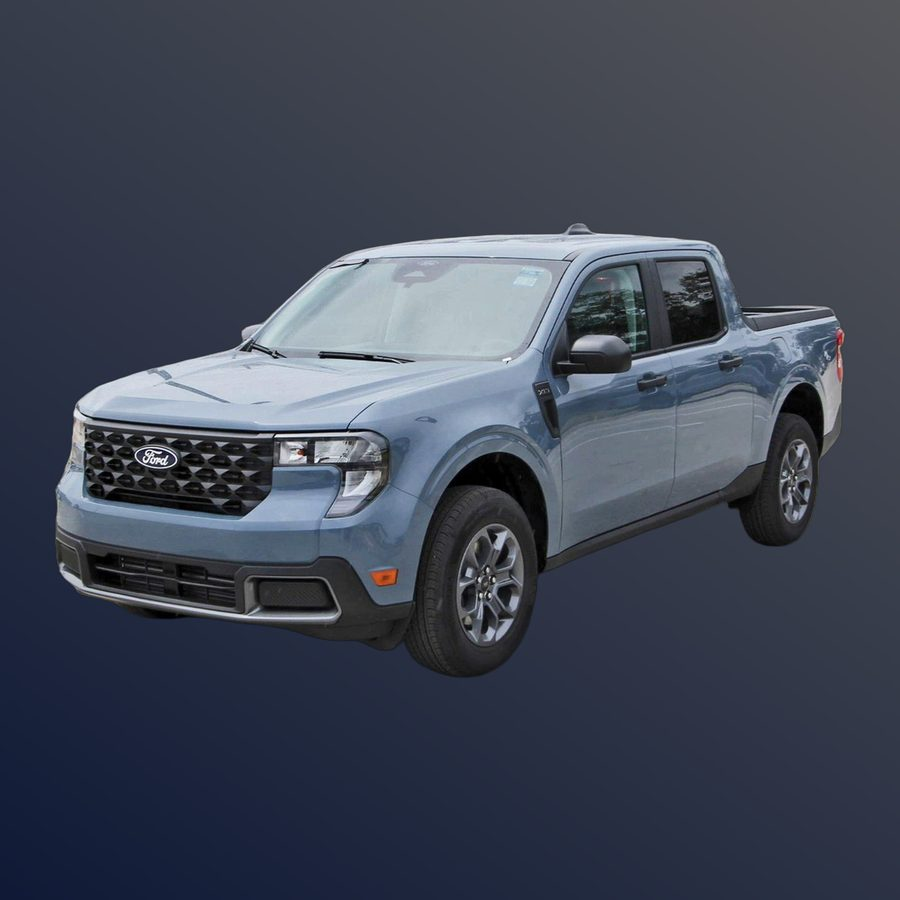
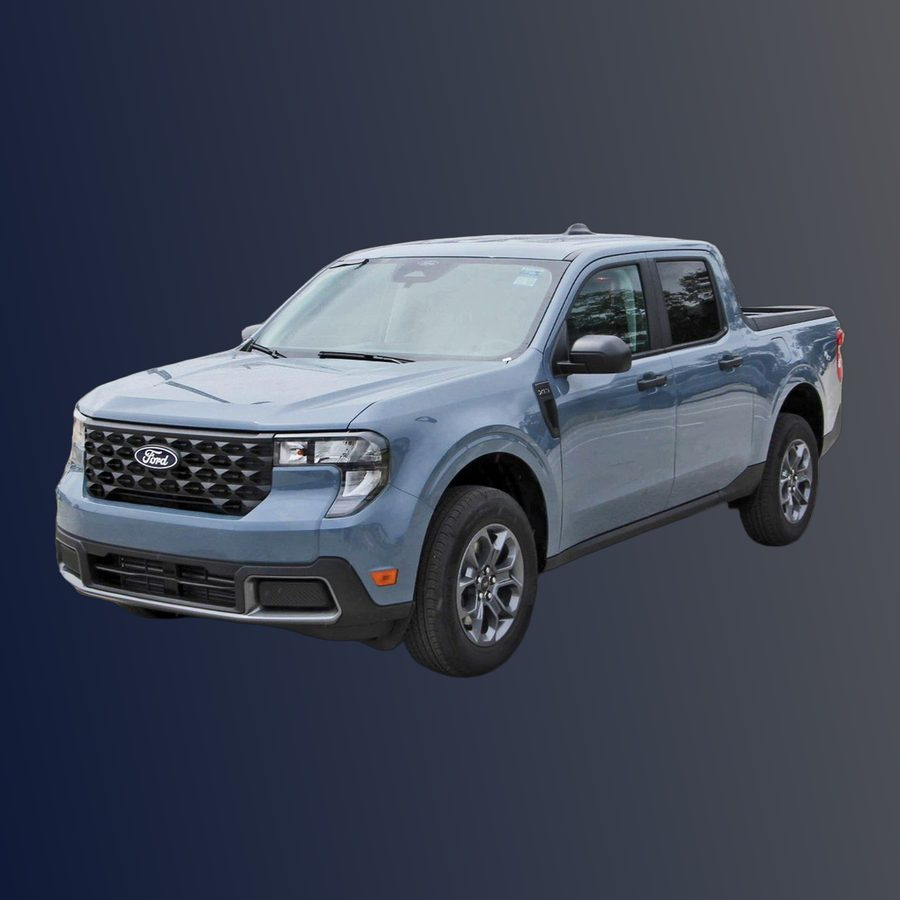
Landing page: the portrait demo is the 9:16 still, composed by the core
web/tools/make-demo-assets.py had drifted from the code (an import of
a module that no longer exists). It now composes the after and the
portrait through compose_hero with the core's vehicle backdrop spec,
at the spec's own square and portrait sizes, from the same cutout, so
the pair shows two of the three shapes a run makes without touching
the library's bundle. The output grid gives the tall portrait a
narrower column so the two sit about one height; the studio bullet
says horizontal, not story.

Claude-Session: https://claude.ai/code/session_01JiZjDqgyLWb4bpmTJWW28c

Changed region(s): [[0.84, 0.84, 1.0, 1.0], [0.0, 0.0, 0.0933, 0.0933]]

diff --git a/web/public/css/landing.css b/web/public/css/landing.css
@@ -174,7 +174,8 @@
   color: #fff; font-size: 10px; font-weight: 650;
 }
 
-.outgrid { display: grid; grid-template-columns: 1.1fr .9fr; gap: var(--s-3); align-items: start; }
+/* A square beside a 9:16 portrait, the two about one height. */
+.outgrid { display: grid; grid-template-columns: 1.3fr .75fr; gap: var(--s-3); align-items: start; }
 .outgrid img { width: 100%; border-radius: var(--r-md); border: 1px solid var(--line); box-shadow: var(--sh-2); }
 
 /* ---------- swatches ---------- */

diff --git a/web/public/index.html b/web/public/index.html
@@ -206,7 +206,7 @@
       </p>
       <ul class="ticks">
         <li>Backdrops, frames and a font ship with the site</li>
-        <li>Square, portrait and story from one set of choices</li>
+        <li>Square, portrait and horizontal from one set of choices</li>
         <li>The same text on every frame of the clip</li>
       </ul>
       <p class="xs dim" style="margin-top:var(--s-4)">

diff --git a/web/tools/make-demo-assets.py b/web/tools/make-demo-assets.py
@@ -10,8 +10,9 @@ from pathlib import Path
 sys.path.insert(0, "src")
 from PIL import Image
 
-from lotstretcher.imaging.compose.background import vehicle_gradient_background
 from lotstretcher.imaging.compose.hero import compose_hero
+from lotstretcher.imaging.compose.pipeline import HERO_STILL_FORMATS
+from lotstretcher.imaging.text import backdrop_spec
 
 V = Path("/home/asuramaya/Documents/listings/new/2026-Ford-Maverick-XLT-RB41981")
 OUT = Path("web/public/demo")
@@ -37,12 +38,16 @@ save(before_sq, "before.jpg", 900)
 
 # AFTER: composed from that same photo's cutout, by the real composer.
 cut = V / "images/exterior/cutout" / (Path(SRC).stem + ".png")
-bg = vehicle_gradient_background((1254, 1254), seed=SRC, exterior=EXT, interior=INT, sample_path=cut)
-after = compose_hero(bg, None, [cut], layout="single", spotlight=True)
+# The backdrop is the core's: a gradient from the vehicle's own colours,
+# seeded per image, exactly as a run makes it.
+bg = backdrop_spec("vehicle", SRC, EXT, INT)
+after = compose_hero(bg, None, [cut], layout="single", spotlight=True, canvas_size=tuple(HERO_STILL_FORMATS["square"]))
 save(after, "after.jpg", 900)
 
-# Supporting shots for the feature sections.
-save(Image.open(V / "bundle/hero-portrait.png"), "portrait.jpg", 620)
+# The portrait, composed the same way at the spec's portrait size (the
+# video's 9:16), so the pair shows the two shapes a run makes.
+portrait = compose_hero(bg, None, [cut], layout="single", spotlight=True, canvas_size=tuple(HERO_STILL_FORMATS["portrait"]))
+save(portrait, "portrait.jpg", 620)
 save(Image.open(V / "bundle/window-sticker-1a.png"), "sticker.jpg", 800, quality=78)
 
 # A strip of raw lot photos, for the "drop in a folder" visual.
